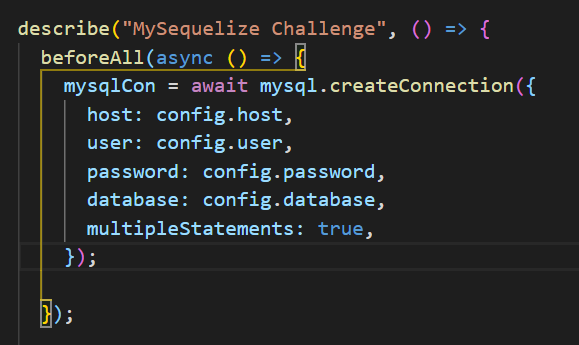
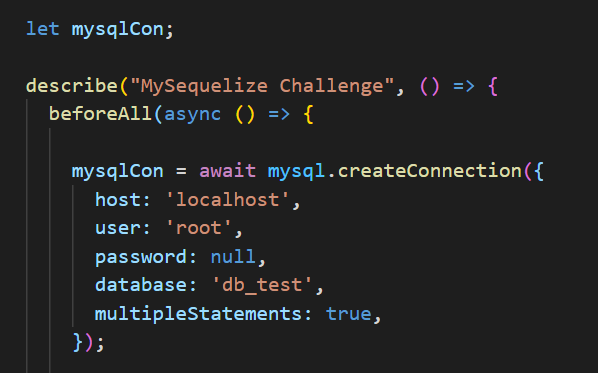
read me finished

Changed region(s): [[0.0311, 0.058, 0.9326, 1.0], [0.7772, 0.058, 0.8394, 0.1159], [0.715, 0.058, 0.7461, 0.1159]]

diff --git a/index.js b/index.js
@@ -1,15 +1,148 @@
 class MySequelize {
     constructor(connect, tableName) {
-        /*
-           const User = new MySequelize(connection, tableName)
-        */
+        this.connection = connect;
+        this.table = tableName;
     }
 
     async create(obj) {
 
         /*
-   
+           Model.create({
+               name: 'test',
+               email: 'test@gmail.com',
+               password: '123456789',
+               is_admin: false
+           })
         */
     }
 
+    async bulkCreate(arr) {
+
+        /*
+           Model.bulkCreate([
+               {
+               name: 'test',
+               email: 'test@gmail.com',
+               password: '123456789',
+               is_admin: false
+           },
+           {
+               name: 'test1',
+               email: 'test1@gmail.com',
+               password: '123456789',
+               is_admin: false
+           },
+           {
+               name: 'test2',
+               email: 'test2@gmail.com',
+               password: '123456789',
+               is_admin: true
+           },
+        ])
+        */
+    }
+
+    async findAll(options) {
+
+        /*
+        Model.findAll({
+            where: {
+                is_admin: false
+            },
+            order: ['id', 'DESC'],
+            limit 2
+        })
+        */
+
+        /*
+        Model.findAll({
+            include:[
+                {
+                    table: playlists,             // table yo want to join
+                    tableForeignKey: "creator",   // column reference in the table yo want to join
+                    sourceForeignKey: "id",       // base table column reference
+                }
+            ] 
+        })
+        */
+
+        /*
+        Model.findAll({
+            where: {
+                [Op.gt]: {
+                    id: 10
+                },                // both [Op.gt] and [Op.lt] need to work so you can pass the tests
+                [Op.lt]: {        
+                    id: 20
+                }
+        })
+        */
+    }
+
+    async findByPk(id) {
+        /*
+            Model.findByPk(id)
+        */
+    }
+
+    async findOne(options) {
+        /*
+            Model.findOne({
+                where: {
+                    is_admin: true
+                }
+            })
+        */
+    }
+
+    async update(newDetsils, options) {
+        /*
+            Model.update( { name: 'test6', email: 'test6@gmail.com' } , {
+                where: {                                                      // first object containing details to update
+                    is_admin: true                                            // second object containing condotion for the query
+                }
+            })
+        */
+    }
+
+    async destroy({ force, ...options }) {
+        /*
+            Model.destroy({
+                where: {                                                      
+                    is_admin: true                                            
+                },
+                force: true      // will cause hard delete
+            })
+        */
+
+        /*
+           Model.destroy({
+               where: {                                                      
+                   id: 10                                           
+               },
+               force: false      // will cause soft delete
+           })
+       */
+        /*
+           Model.destroy({
+               where: {                                                      
+                   id: 10                                           
+               },  // will cause soft delete
+           })
+       */
+
+    }
+
+    async restore(options) {
+        /*
+           Model.restore({
+               where: {                                                      
+                   id: 12                                          
+               }
+           })
+       */
+    }
+
 }
+
+module.exports = { MySequelize };

diff --git a/test.test.js b/test.test.js
@@ -1,11 +1,7 @@
 const { MySequelize } = require("./mySequelize");
 const mysql = require("mysql2/promise");
-const config = require('./config')
 const { Op } = require('./Op/OpsSymbols')
 
-
-
-// const MySequelize = require('../_cloned-app')
 
 let mysqlCon;
 
@@ -13,10 +9,10 @@ describe("MySequelize Challenge", () => {
   beforeAll(async () => {
 
     mysqlCon = await mysql.createConnection({
-      host: config.host,
-      user: config.user,
-      password: config.password,
-      database: config.database,
+      host: 'localhost',
+      user: 'root',
+      password: null,
+      database: 'db_test',
       multipleStatements: true,
     });
 
@@ -197,9 +193,9 @@ describe("MySequelize Challenge", () => {
       const myResults = await User.findAll({
         include: [
           {
-            table: "playlists",
-            tableForeignKey: "creator",
-            sourceForeignKey: "id",
+            table: "playlists", // joining table name
+            tableForeignKey: "creator", // joining table column name (FK)
+            sourceForeignKey: "id", // parent table column 
           }
         ],
       });

diff --git a/Op/OpSymbols.js b/Op/OpSymbols.js
@@ -1,0 +1,5 @@
+
+
+
+
+module.exports = { Op }

diff --git a/README.md b/README.md
@@ -2,7 +2,7 @@
 
 ## Description
 
-In this challenge we will be building basic ORM functionallity base on Sequelize usin mysql2
+In this challenge we will be building basic ORM functionallity base on Sequelize using mysql2
 
 --- 
 
@@ -34,7 +34,7 @@ Implementing the next functions:
 
 2. Run ``` $npm i ```
 
-3. If you want to run the tests locally, connect to your MySql in the [test connection statment](./test.test.js), which is located in the ``` beforeAll() ``` in the main test.
+3. If you want to run the tests locally, connect to your MySql in the test connection statment, which is located in the ``` beforeAll() ``` in the main test. Enter you password and create empty DB called db_test in your machine.
 
 ![sql connection](./ReadMePics/SQLconnection.png)
 
@@ -107,9 +107,54 @@ Implementing the next functions:
 
 ---
 
-## Submiting The Challenge
+## General
+
+### Files and Folders:
+
+## Use The Template!
+
+* main class MySequelize in index.js, which located in the main folder
+
+### Operations:
+* folder called 'Op'. inside the folder you must have the file 'OpSymbols.js' (rest of the files is for your decision)
+
+![Op folder](./ReadMePics/OpFolder.png)
+* 'OpSymbols.js' should export the object 'Op', as in the picture
+
+![Op export](./ReadMePics/OpExport.png)
+
+* so we can require it as follow in the test 
+
+![Op require](./ReadMePics/OpRequire.png)
+
+* and use it this way (like in sequelize...)
+
+![Op use](./ReadMePics/OpUse.png)
+
+
+### Include:
+
+* 'include' statment recieves the folowwing parameters:
+
+![Include params](./ReadMePics/IncludeUse.png)
+
+* 'include' statment should return nested array inside the original object, with key equel to the table name
+
+* ```[TextRow] ``` is a playlist object
+
+![Include params](./ReadMePics/IncludeReturn.png)
+
 
 ---
+
+### Submiting The Challenge
+
+1. The repository must be public and the solution must be in master/main branch
+
+2. Copy the relative url of the repository and paste in the submiting form.
+
+
+--- 
 
 ## Usefull Links
 * [SQL Keywords Reference](https://www.w3schools.com/sql/sql_ref_keywords.asp)
